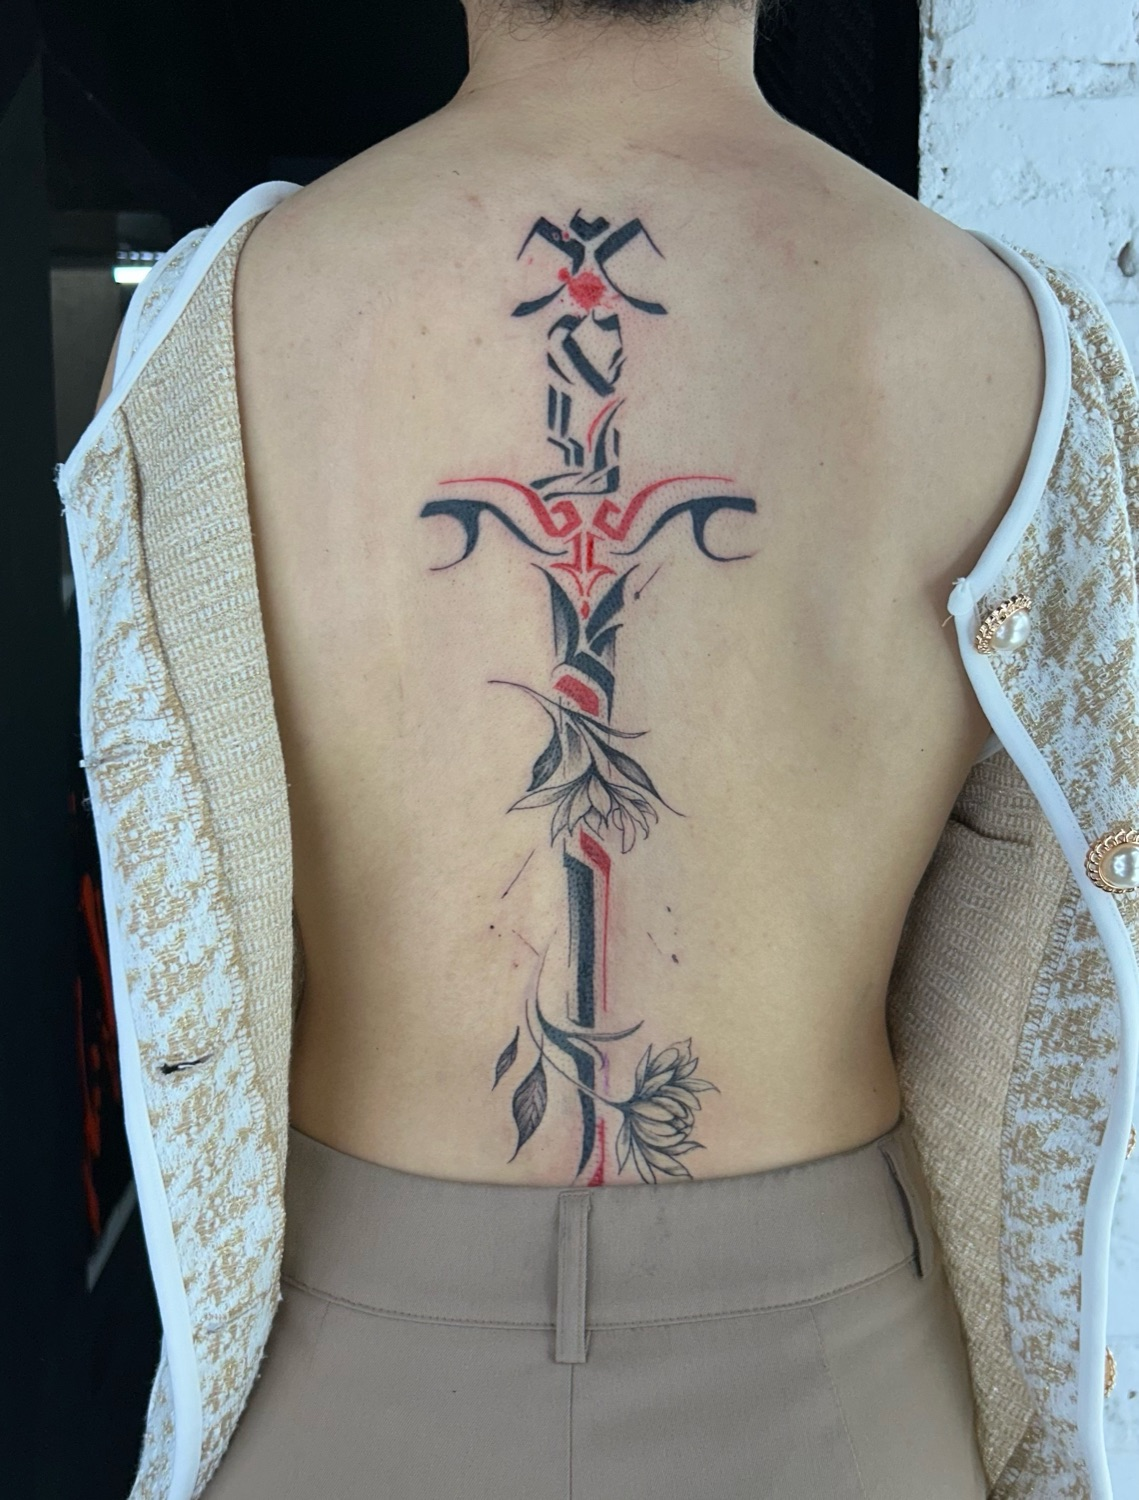
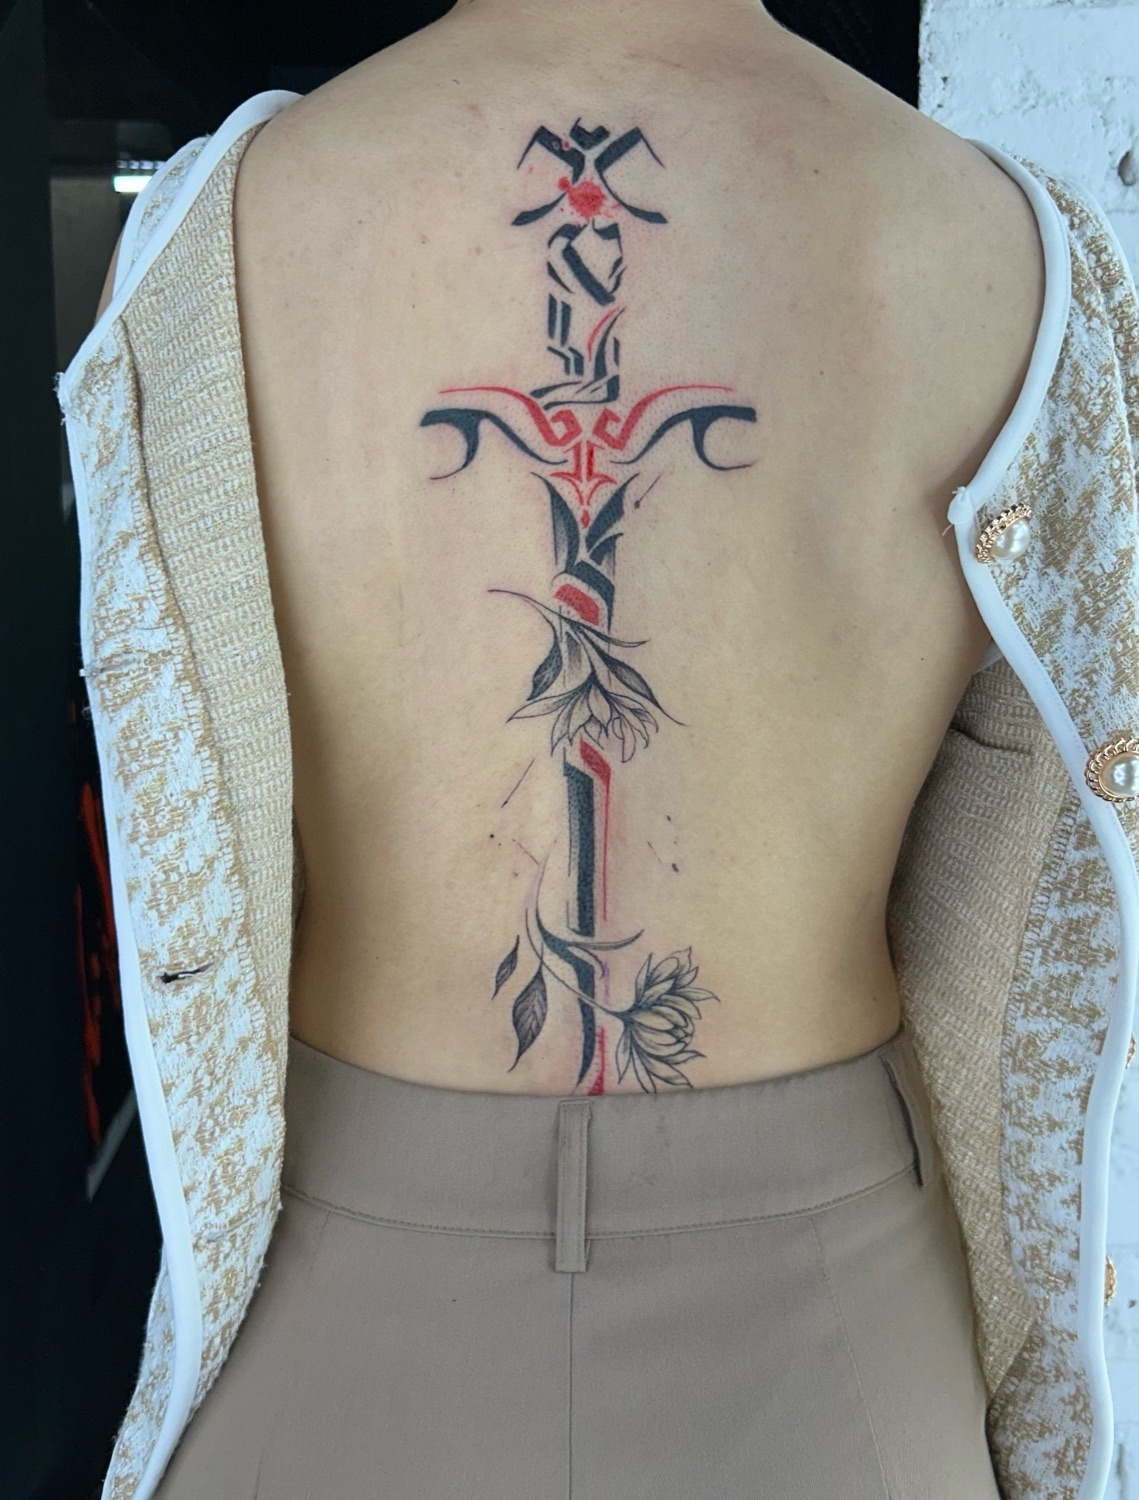
Capa: mais lâmina, menos pescoço · copy do projeto grande

diff --git a/conteudo.js b/conteudo.js
@@ -30,7 +30,7 @@ window.SITE = {
       resposta: "A gente começa pelo lugar.", texto: "Me manda a ideia e uma foto de onde você pensou. Eu te mostro onde ela encaixa melhor no seu corpo, antes de qualquer desenho.",
       botao: "Quero ver onde encaixa", mensagem: "Oi, Felipe! Vim pelo seu site. Tenho uma ideia de tattoo e quero ver onde ela encaixa." },
     { tipo: "Projeto grande", titulo: "Quero fechar um braço, as costas ou a perna", detalhe: "Uma peça só, ocupando a região inteira.",
-      resposta: "Projeto grande se planeja inteiro.", texto: "Antes da primeira sessão, a gente define o encaixe do todo e quantas sessões vão ser. Cada parte já nasce no lugar certo.",
+      resposta: "Projeto grande se planeja inteiro.", texto: "Antes da primeira sessão, a gente define o encaixe da arte inteira e quantas sessões vão ser. Cada parte já nasce no lugar certo.",
       botao: "Quero fechar uma região", mensagem: "Oi, Felipe! Vim pelo seu site e quero fechar uma região inteira (braço, costas ou perna)." },
     { tipo: "Primeira tattoo", titulo: "É minha primeira tattoo", detalhe: "Não precisa saber o quê nem onde. A gente começa pela conversa.",
       resposta: "A primeira a gente faz com calma.", texto: "Me conta o que te dá vontade de tatuar, mesmo que ainda seja só uma ideia solta. Se preferir, vem conhecer o studio antes, sem compromisso.",
